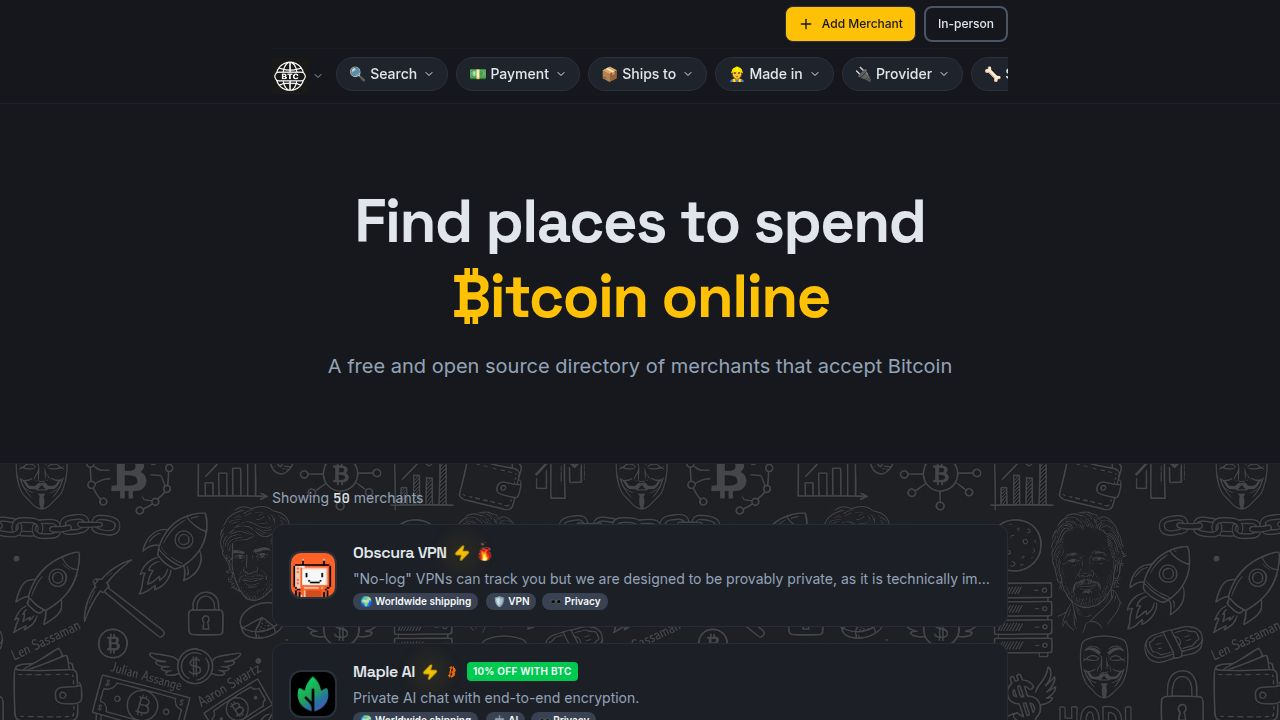
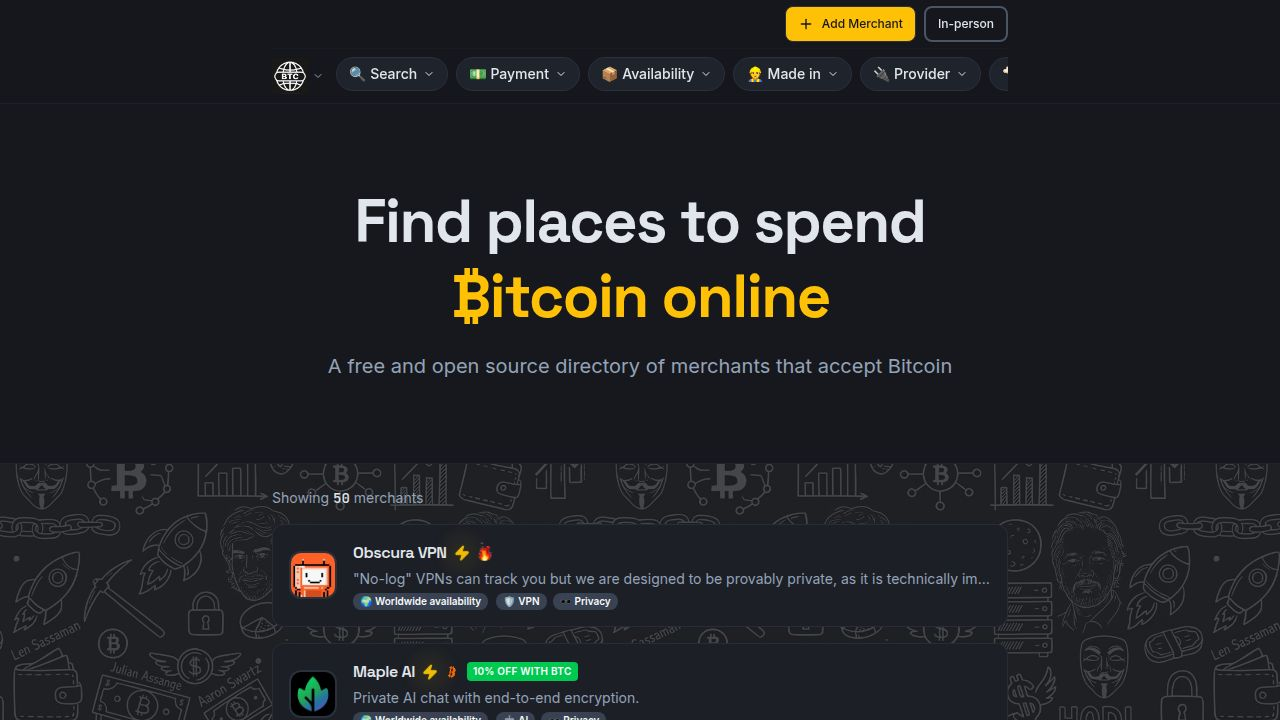
Add discount information to merchant listings and display options
Add a new `bitcoinDiscount` field to merchants, supporting "NEW" for animated badges and custom discount text. Updates merchant cards, admin interface, and seed data.

Replit-Commit-Author: Agent
Replit-Commit-Session-Id: 224f9bd1-9812-4715-863d-3c08d08e0ad0
Replit-Commit-Checkpoint-Type: full_checkpoint
Replit-Commit-Event-Id: c1321bb6-caf0-40bc-889d-e0ab95df08b0
Replit-Commit-Screenshot-Url: https://storage.googleapis.com/screenshot-production-us-central1/836d56c9-18a9-46ad-9972-6a9fa87541a8/224f9bd1-9812-4715-863d-3c08d08e0ad0/v3YTVQh
Replit-Helium-Checkpoint-Created: true

Changed region(s): [[0.4688, 0.0917, 0.7812, 0.1222], [0.3438, 0.825, 0.5, 0.8556], [0.3438, 0.9778, 0.4688, 1.0]]

diff --git a/server/seed.ts b/server/seed.ts
@@ -7,11 +7,11 @@ const SEED_MERCHANTS = [
   { name: "FARFETCH", description: "The global destination for modern luxury.", logo: "/assets/farftech.png", categories: ["Fashion", "Lifestyle"], shippingCountries: ["Worldwide"], website: "https://www.farfetch.com/", lightningSupported: true, onchainSupported: true, paymentProvider: "Triple A", countryMadeIn: "United Kingdom", lastSurveyed: "2026-02-15" },
   { name: "Name Cheap", description: "Register domains and buy web hosting with Bitcoin. Privacy-focused domain registrar.", logo: "/assets/namecheap.png", categories: ["Hosting"], shippingCountries: ["Worldwide"], website: "https://www.namecheap.com/", lightningSupported: true, onchainSupported: true, paymentProvider: "BTCPay Server", countryMadeIn: "United States", lastSurveyed: "2026-02-15" },
   { name: "The Human Rights Foundation", description: "Uniting people under the common cause of defending human rights and promoting liberal democracy.", logo: "/assets/humanrightsfoundation.png", categories: ["Charity"], shippingCountries: ["Worldwide"], website: "https://hrf.org/", lightningSupported: true, onchainSupported: true, paymentProvider: "BTCPay Server", countryMadeIn: "United States", lastSurveyed: "2026-02-15" },
-  { name: "SLNT", description: "Privacy-first Faraday bags and signal blocking accessories.", logo: "/assets/slnt.png", categories: ["Privacy", "Fashion", "Health"], shippingCountries: ["Worldwide"], website: "https://slnt.com/", lightningSupported: true, onchainSupported: true, paymentProvider: "Strike", countryMadeIn: "United States", lastSurveyed: "2026-02-15" },
+  { name: "SLNT", description: "Privacy-first Faraday bags and signal blocking accessories.", logo: "/assets/slnt.png", categories: ["Privacy", "Fashion", "Health"], shippingCountries: ["Worldwide"], website: "https://slnt.com/", lightningSupported: true, onchainSupported: true, paymentProvider: "Strike", countryMadeIn: "United States", lastSurveyed: "2026-02-15", bitcoinDiscount: "NEW" },
   { name: "Travala", description: "Book hotels, flights, tours and activities.", logo: "/assets/travala.png", categories: ["Travel"], shippingCountries: ["Worldwide"], website: "https://www.travala.com/", lightningSupported: true, onchainSupported: true, paymentProvider: "Open Node", countryMadeIn: "Singapore", lastSurveyed: "2026-02-15" },
   { name: "Bees and Trees", description: "Unlock nature's goodness with high-quality organic Manuka Honey", logo: "/assets/beesandtrees.png", categories: ["Food & Drink"], shippingCountries: ["Worldwide"], website: "https://www.beesandtrees.com/", lightningSupported: true, onchainSupported: false, paymentProvider: "Strike", countryMadeIn: "New Zealand", lastSurveyed: "2026-02-15" },
   { name: "Polymarket", description: "The world's largest prediction market.", logo: "/assets/polymarket.png", categories: ["Gambling"], shippingCountries: ["Worldwide"], website: "https://polymarket.com/", lightningSupported: false, onchainSupported: true, paymentProvider: "Self-hosted", countryMadeIn: "United States", lastSurveyed: "2026-02-15" },
-  { name: "Maple AI", description: "Private AI chat with end-to-end encryption.", logo: "/assets/mapleai.png", categories: ["AI", "Privacy", "Open-source"], shippingCountries: ["Worldwide"], website: "https://trymaple.ai/", lightningSupported: true, onchainSupported: true, paymentProvider: "Zaprite", countryMadeIn: "United States", lastSurveyed: "2026-02-15" },
+  { name: "Maple AI", description: "Private AI chat with end-to-end encryption.", logo: "/assets/mapleai.png", categories: ["AI", "Privacy", "Open-source"], shippingCountries: ["Worldwide"], website: "https://trymaple.ai/", lightningSupported: true, onchainSupported: true, paymentProvider: "Zaprite", countryMadeIn: "United States", lastSurveyed: "2026-02-15", bitcoinDiscount: "10% off with BTC" },
   { name: "Hill Helicopters", description: "Experience the future of private helicopter aviation.", logo: "/assets/hillhelicopters.png", categories: ["Vehicle"], shippingCountries: ["Worldwide"], website: "https://www.hillhelicopters.com/", lightningSupported: true, onchainSupported: true, paymentProvider: "CoinCorner", countryMadeIn: "United Kingdom", lastSurveyed: "2026-02-15" },
   { name: "Atoms", description: "The most comfortable shoes for everyday wear.", logo: "/assets/atoms.png", categories: ["Fashion"], shippingCountries: ["Worldwide"], website: "https://atoms.com/", lightningSupported: true, onchainSupported: true, paymentProvider: "Open Node", countryMadeIn: "United States", lastSurveyed: "2026-02-15" },
   { name: "Mullvad VPN", description: "VPN service that helps keep your online activity, identity, and location private.", logo: "/assets/mullvad.png", categories: ["VPN", "Privacy", "Browser"], shippingCountries: ["Worldwide"], website: "https://mullvad.net/en", lightningSupported: true, onchainSupported: true, paymentProvider: "Self-hosted", countryMadeIn: "Sweden", lastSurveyed: "2026-02-15" },
@@ -20,7 +20,7 @@ const SEED_MERCHANTS = [
   { name: "Signal", description: "Share text, voice messages, photos, videos, GIFs and files for free securely.", logo: "/assets/signal.png", categories: ["Social Media", "Privacy", "Foundation", "Open-source"], shippingCountries: ["Worldwide"], website: "https://signal.org/", lightningSupported: false, onchainSupported: true, paymentProvider: "The Giving Block", countryMadeIn: "United States", lastSurveyed: "2026-02-15" },
   { name: "AROTAGS", description: "Premium wood air fresheners for your car. Long-lasting, artisan-crafted scents.", logo: "/assets/arotags.png", categories: ["Lifestyle", "Vehicle"], shippingCountries: ["Worldwide"], website: "https://www.arotags.com/", lightningSupported: true, onchainSupported: false, paymentProvider: "Strike", countryMadeIn: "United States", lastSurveyed: "2026-02-15" },
   { name: "Cheap Air", description: "Experience cheap, fast and secure flight bookings.", logo: "/assets/cheapair.png", categories: ["Travel"], shippingCountries: ["Worldwide"], website: "https://www.cheapair.com/", lightningSupported: true, onchainSupported: true, paymentProvider: "BTCPay Server", countryMadeIn: "United States", lastSurveyed: "2026-02-15" },
-  { name: "PayPerQ", description: "Pay per prompt and get instant access to hundreds of powerful AI models. No subscriptions. No registration required.", logo: "/assets/payperq.png", categories: ["AI", "Digital Privacy"], shippingCountries: ["Worldwide"], website: "https://ppq.ai/", lightningSupported: true, onchainSupported: true, paymentProvider: "BTCPay Server", countryMadeIn: null, lastSurveyed: "2026-02-15" },
+  { name: "PayPerQ", description: "Pay per prompt and get instant access to hundreds of powerful AI models. No subscriptions. No registration required.", logo: "/assets/payperq.png", categories: ["AI", "Digital Privacy"], shippingCountries: ["Worldwide"], website: "https://ppq.ai/", lightningSupported: true, onchainSupported: true, paymentProvider: "BTCPay Server", countryMadeIn: null, lastSurveyed: "2026-02-15", bitcoinDiscount: "5% off with BTC" },
   { name: "Nord VPN", description: "Fast, secure, and risk-free VPN for online privacy.", logo: "/assets/nordvpn.png", categories: ["VPN", "Privacy", "Cellular", "Password Manager", "Storage", "Insurance"], shippingCountries: ["Worldwide"], website: "https://nordvpn.com/", lightningSupported: true, onchainSupported: true, paymentProvider: "Coingate", countryMadeIn: null, lastSurveyed: "2026-02-15" },
   { name: "Beef initiative", description: "Order beef that is more localized, redundant, and secure.", logo: "/assets/beefinitiative.png", categories: ["Food & Drink"], shippingCountries: ["United States"], website: "https://beefinitiative.com/", lightningSupported: true, onchainSupported: false, paymentProvider: "Strike", countryMadeIn: "United States", lastSurveyed: "2026-02-15" },
   { name: "Daylight Computer", description: "Healthy and humane computers that respect our health, attention and freedom.", logo: "/assets/daylight.png", categories: ["Electronics", "Health"], shippingCountries: ["Worldwide"], website: "https://daylightcomputer.com/", lightningSupported: true, onchainSupported: false, paymentProvider: "Strike", countryMadeIn: "United States", lastSurveyed: "2026-02-15" },
@@ -56,7 +56,7 @@ const SEED_MERCHANTS = [
 ];
 
 function merchantDataMatches(existing: any, seed: any): boolean {
-  const fields = ["name", "description", "logo", "website", "lightningSupported", "onchainSupported", "paymentProvider", "countryMadeIn", "lastSurveyed"] as const;
+  const fields = ["name", "description", "logo", "website", "lightningSupported", "onchainSupported", "paymentProvider", "countryMadeIn", "lastSurveyed", "bitcoinDiscount"] as const;
   for (const f of fields) {
     if ((existing[f] ?? null) !== (seed[f] ?? null)) return false;
   }

diff --git a/client/src/pages/admin.tsx b/client/src/pages/admin.tsx
@@ -19,6 +19,7 @@ interface ParsedMerchant {
   countryMadeIn: string;
   countryShippedFrom: string;
   lastSurveyed: string;
+  bitcoinDiscount: string;
   [key: string]: string;
 }
 
@@ -231,6 +232,7 @@ export default function Admin() {
                 <span><strong>paymentProvider</strong> — e.g. BTCPay Server</span>
                 <span><strong>countryMadeIn</strong> — e.g. USA</span>
                 <span><strong>lastSurveyed</strong> — e.g. 2026-02-11</span>
+                <span><strong>bitcoinDiscount</strong> — e.g. 10% off with BTC</span>
               </div>
             </div>
           </Card>
@@ -282,6 +284,7 @@ export default function Admin() {
                     <th className="text-left p-2 font-medium">On-chain</th>
                     <th className="text-left p-2 font-medium">Payment Provider</th>
                     <th className="text-left p-2 font-medium">Shipping</th>
+                    <th className="text-left p-2 font-medium">BTC Discount</th>
                   </tr>
                 </thead>
                 <tbody>
@@ -320,6 +323,7 @@ export default function Admin() {
                       </td>
                       <td className="p-2 max-w-[120px] truncate text-muted-foreground">{row.paymentProvider || row.payment_provider || "—"}</td>
                       <td className="p-2 max-w-[120px] truncate text-muted-foreground">{row.shippingCountries || row.shipping_countries || "—"}</td>
+                      <td className="p-2 max-w-[120px] truncate text-muted-foreground">{row.bitcoinDiscount || row.bitcoin_discount || "—"}</td>
                     </tr>
                   ))}
                 </tbody>

diff --git a/client/src/components/merchant-card.tsx b/client/src/components/merchant-card.tsx
@@ -108,15 +108,11 @@ export default memo(function MerchantCard({ merchant, expanded, onToggleExpand, 
             {merchant.onchainSupported && (
               <Bitcoin className="h-3.5 w-3.5 shrink-0 fill-orange-500 text-orange-500" />
             )}
-            {merchant.name === "Maple AI" && (
-              <span className="shrink-0 text-[10px] font-bold bg-green-500 text-white px-1.5 py-0.5 rounded-sm uppercase tracking-wide">10% off with BTC</span>
-            )}
-            {merchant.name === "PayPerQ" && (
-              <span className="shrink-0 text-[10px] font-bold bg-green-500 text-white px-1.5 py-0.5 rounded-sm uppercase tracking-wide">5% off with BTC</span>
-            )}
-            {merchant.name === "SLNT" && (
+            {merchant.bitcoinDiscount && merchant.bitcoinDiscount.toUpperCase() === "NEW" ? (
               <span className="shrink-0 text-[11px] font-black px-1.5 py-0.5 rounded-sm uppercase tracking-wide animate-rainbow" style={{ background: "linear-gradient(90deg, #ff0000, #ff8800, #00ff00, #0088ff, #8800ff, #ff0088, #ff0000)", backgroundSize: "200% 100%", WebkitBackgroundClip: "text", WebkitTextFillColor: "transparent", backgroundClip: "text" }}>NEW</span>
-            )}
+            ) : merchant.bitcoinDiscount ? (
+              <span className="shrink-0 text-[10px] font-bold bg-green-500 text-white px-1.5 py-0.5 rounded-sm uppercase tracking-wide">{merchant.bitcoinDiscount}</span>
+            ) : null}
           </div>
           <p className="text-xs md:text-sm text-muted-foreground truncate">{merchant.description}</p>
           <div className="flex items-center gap-2">

diff --git a/server/routes.ts b/server/routes.ts
@@ -140,6 +140,7 @@ export async function registerRoutes(
             countryMadeIn: row.countrymadein || row.country_made_in || null,
             countryShippedFrom: row.countryshippedfrom || row.country_shipped_from || null,
             lastSurveyed: row.lastsurveyed || row.last_surveyed || new Date().toISOString().split('T')[0],
+            bitcoinDiscount: row.bitcoindiscount || row.bitcoin_discount || null,
           };
 
           const validated = insertMerchantSchema.safeParse(prepared);

diff --git a/shared/schema.ts b/shared/schema.ts
@@ -18,6 +18,7 @@ export const merchants = pgTable("merchants", {
   countryMadeIn: text("country_made_in"),
   countryShippedFrom: text("country_shipped_from"),
   lastSurveyed: text("last_surveyed"),
+  bitcoinDiscount: text("bitcoin_discount"),
 });
 
 export const insertMerchantSchema = createInsertSchema(merchants).omit({

diff --git a/replit.md b/replit.md
@@ -4,6 +4,9 @@
 A free and open-source directory of businesses that accept Bitcoin online. Displays merchant listings with categories, payment methods (Lightning/On-chain), shipping information, and website links.
 
 ## Recent Changes
+- Added `bitcoinDiscount` field (nullable text) to merchants table for data-driven discount/promo badges
+  - "NEW" value renders rainbow animated tag; any other value renders green discount badge
+  - Supported in CSV import via `bitcoinDiscount` or `bitcoin_discount` column
 - Added unique merchant URLs via slug-based routing (/merchant/:slug) with auto-scroll on deep link
 - Added Share button with QR code popover in expanded merchant cards
 - Multi-select filters for all dropdowns (categories, countries, payment, provider)
